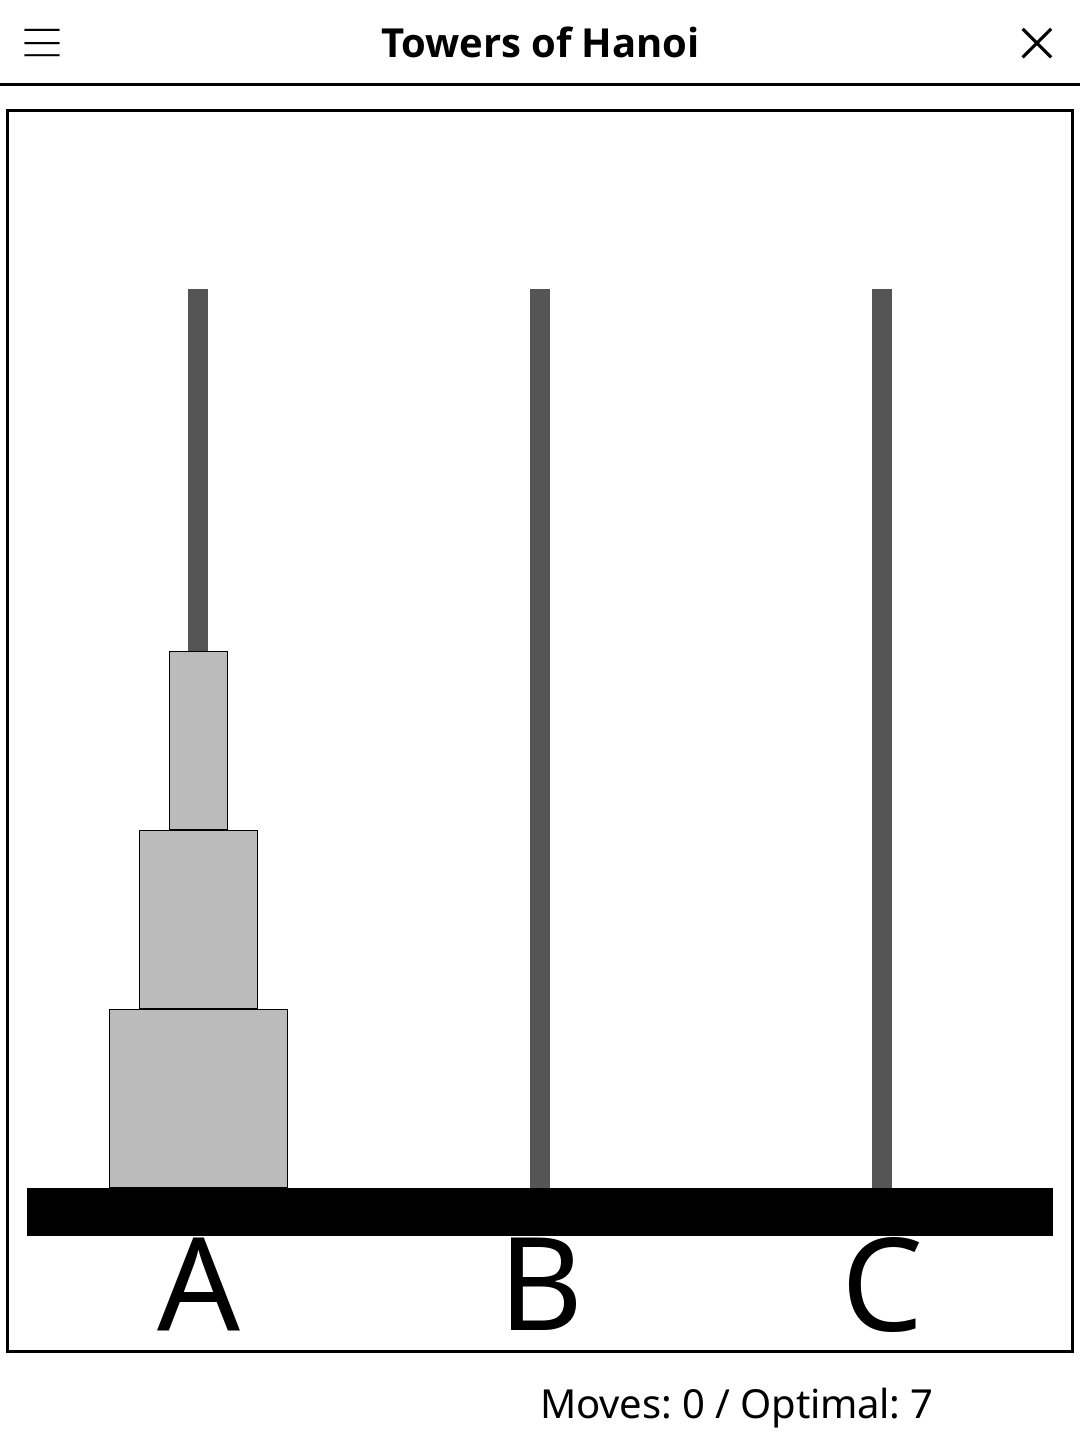
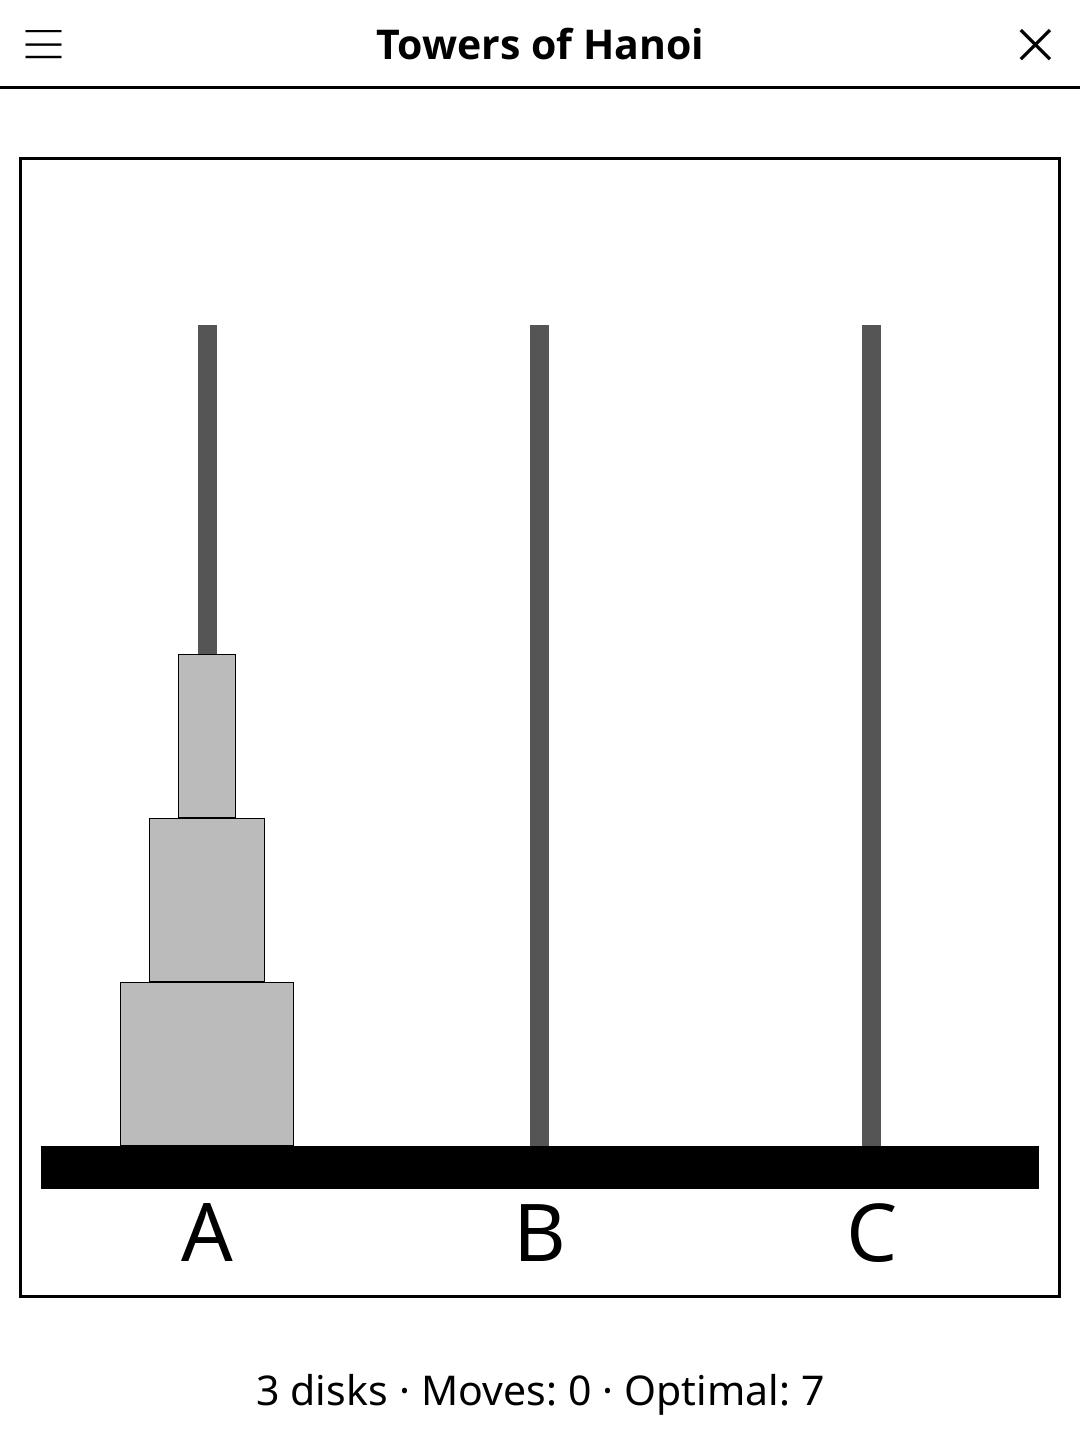
release: 1.2.0 -- redesigned screen, harmonised menu, New game at round end
Screen redesign (full-width action bar, unified pad, status line, larger
board), harmonised title-bar menu, and a "New game" button once the round
is over. See CHANGELOG.md.

Changed region(s): [[0.0, 0.0, 1.0, 1.0], [0.4889, 0.1875, 0.5194, 0.25]]

diff --git a/CHANGELOG.md b/CHANGELOG.md
@@ -6,6 +6,27 @@ Reconstructed from this repository's git history: each release lists the
 feature and fix commits it carried. Version bumps, screenshot additions
 and CI syncs are left out.
 
+## [1.2.0] - 2026-10-30
+
+### Added
+- "New game" appears under the status line once the puzzle is solved, so
+  the next round no longer needs the menu.
+- The rules now explain how to play: tap a peg to pick up its top disk, then
+  another peg to drop it.
+
+### Changed
+- Redesigned play screen, in line with the other games: a larger board that
+  fills the available room. The status line reads "3 disks · Moves: n ·
+  Optimal: n" and wraps in landscape instead of being cut off; the selected
+  peg is shown by its shading only.
+- Title-bar menu shows the current value: "Size: 3 disks".
+- New README screenshot.
+
+### Fixed
+- The peg letters under the board were about twice too tall on high-DPI
+  screens and overflowed their strip; they are now sized to fit it and
+  centred.
+
 ## [1.1.16] - 2026-10-07
 
 ### Fixed
